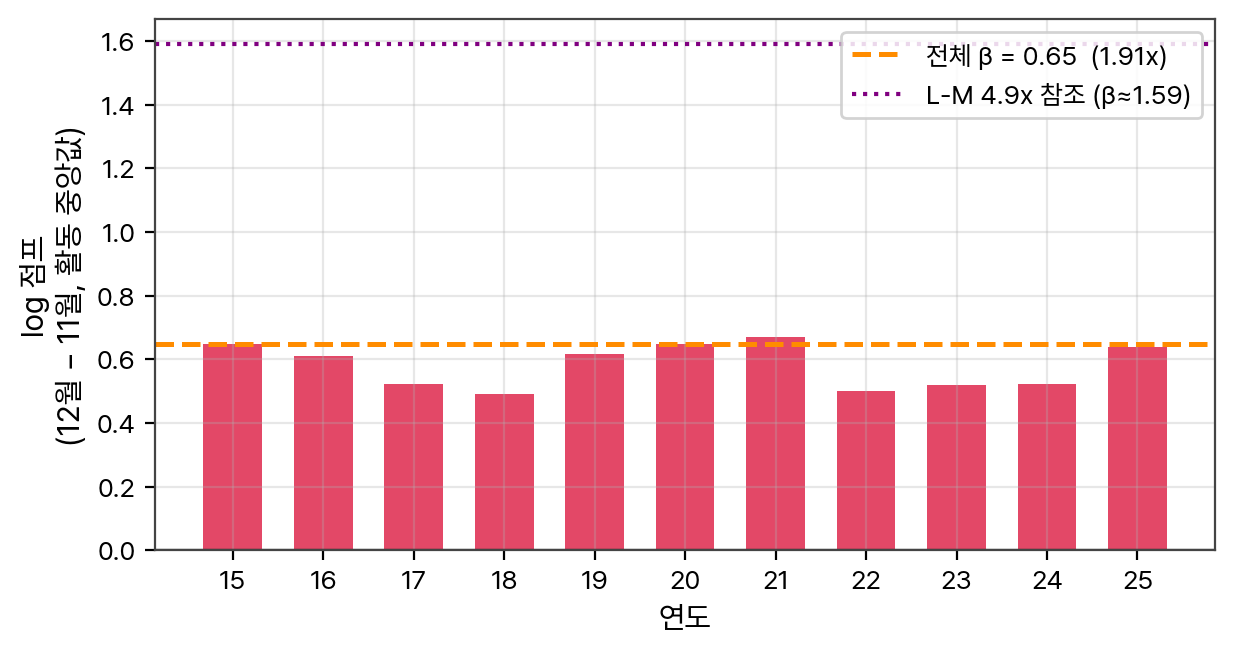
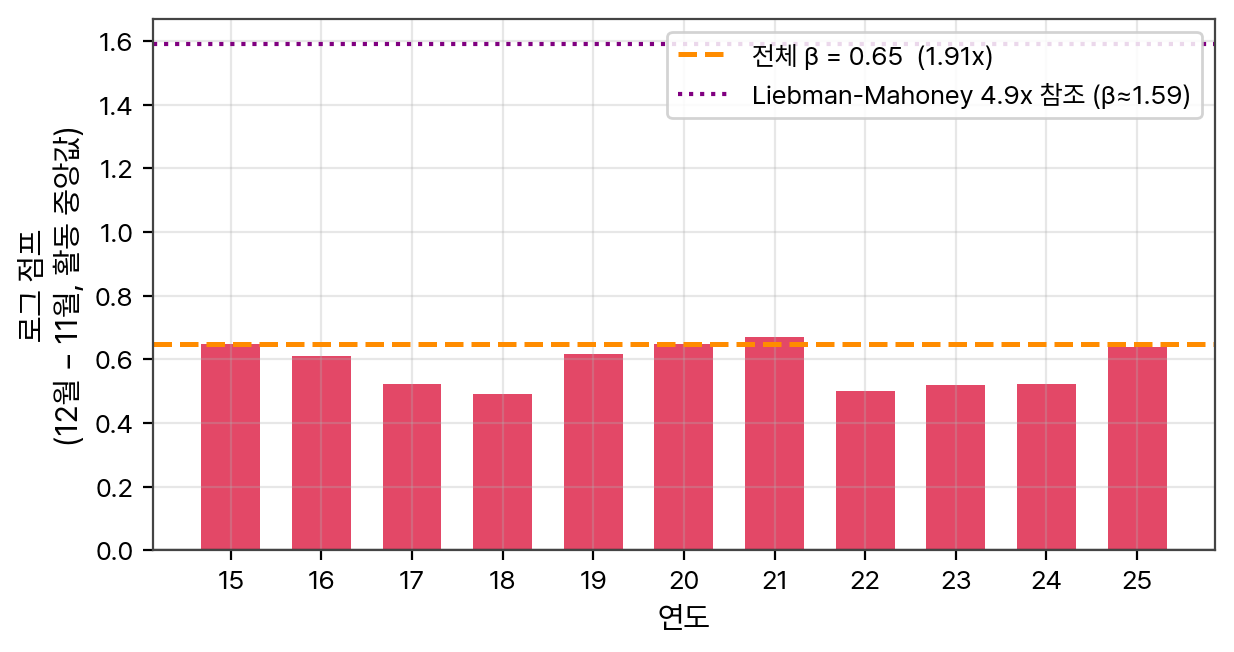
본문 차트 in-chart 라벨 직관화 — 캡션과 용어 일치 (부록 차트 제외)
본문(§1~7) 차트 8종의 축·범례·제목에 남은 변수코드·약어를 방금 정리한 캡션과 일치:
- redo_fig04 견고성: Δoutcome~Δamp_z→Δ결과변수~Δ진폭(표준화), FE→고정효과(FE),
  Permutation forest→순열검정 forest, obs/null→관측/무작위 기준선, amp_cv→진폭 변동계수
- redo_fig09 STL: amp_12m_norm→12개월 진폭, seasonal_strength→계절강도, outcome→결과변수
- redo_fig10 부처 사분면: exposure_score·w_corr_diff 코드 제거 → 굿하트 노출 점수(집행 시점 집중도)·부처 가중 결과변수 차분 상관 (business 짝과 통일)
- redo_fig07/08 RDD: cutoff→마감, log→로그, L-M→Liebman-Mahoney
- redo_fig05 CPI: raw/CPI-residual→원/CPI 통제 후
- redo_fig03 PH: max persistence→최대 지속성, max thresh→최대 임계
- redo_fig15: 12m cycle wavelet power→12개월 주기 진폭(wavelet power)

부록 차트(redo_fig11~14·16)는 사용자 지시대로 미변경. 81p 유지, 렌더 검증 완료.

diff --git a/scripts/figures/redo_fig04_robustness.py b/scripts/figures/redo_fig04_robustness.py
@@ -93,8 +93,8 @@ for i, p in enumerate(fe['p']):
 ax.axhline(0, color='gray', lw=0.6)
 ax.set_xticks(xs)
 ax.set_xticklabels(labels_short, fontsize=9, rotation=12, ha='right')
-ax.set_ylabel('β (Δoutcome ~ Δamp_z)')
-ax.set_title('(a) FE 회귀 β  (N=128)')
+ax.set_ylabel('β (Δ결과변수 ~ Δ진폭, 표준화)')
+ax.set_title('(a) 고정효과(FE) 회귀 β  (N=128)')
 ax.grid(alpha=0.3, axis='y')
 
 # ── (b) 14분야 Permutation forest plot
@@ -120,8 +120,8 @@ ax.scatter(perm_sorted['obs_corr_diff'], y_pos, s=42,
 ax.axvline(0, color='gray', lw=0.6, ls=':')
 ax.set_yticks(y_pos)
 ax.set_yticklabels(perm_sorted['fld'], fontsize=8)
-ax.set_xlabel('차분 상관 (점=obs · 띠=null 95% CI)')
-ax.set_title('(b) Permutation forest — 14분야 (p<.05 빨강)')
+ax.set_xlabel('차분 상관 (점=관측 · 띠=무작위 기준선 95% CI)')
+ax.set_title('(b) 순열검정 forest — 14분야 (p<.05 빨강)')
 ax.grid(alpha=0.3, axis='x')
 
 plt.tight_layout()
@@ -137,10 +137,10 @@ fig, axes = plt.subplots(1, 2, figsize=(7.56, 4.2))
 ax = axes[0]
 pv = lag.pivot_table(index='fld', columns='lag', values='corr_diff')
 sns.heatmap(pv, annot=True, fmt='.2f', cmap='RdBu_r', center=0, ax=ax,
-            cbar_kws={'label': 'corr_diff'},
+            cbar_kws={'label': '차분 상관'},
             annot_kws={'size': 8.5}, linewidths=0.3, linecolor='white')
-ax.set_xlabel('lag (year)'); ax.set_ylabel('')
-ax.set_title('(c) Lag/Lead 차분 상관 heatmap')
+ax.set_xlabel('시차 (년)'); ax.set_ylabel('')
+ax.set_title('(c) 시차/선행 차분 상관 heatmap')
 ax.tick_params(axis='y', labelsize=9.5)
 ax.tick_params(axis='x', labelsize=10)
 
@@ -154,8 +154,8 @@ ax.barh(range(len(nat_sorted)), nat_sorted['amp_cv'],
         color=colors_bar, alpha=0.85, edgecolor='black', linewidth=0.4)
 ax.set_yticks(range(len(nat_sorted)))
 ax.set_yticklabels(nat_sorted['fld'], fontsize=10)
-ax.set_xlabel('amp_12m 시간 CV')
-ax.set_title('(d) 분야별 amp_cv (게임화 변동 vs 자연 주기)')
+ax.set_xlabel('12개월 진폭 시간 변동계수')
+ax.set_title('(d) 분야별 진폭 변동계수 (게임화 변동 vs 자연 주기)')
 ax.grid(alpha=0.3, axis='x')
 
 plt.tight_layout()

diff --git a/scripts/figures/redo_fig05_cpi.py b/scripts/figures/redo_fig05_cpi.py
@@ -48,7 +48,7 @@ fig, axes = plt.subplots(2, 1, figsize=(8.5, 8.5),
 # ── (a) 산포도 raw vs CPI-residual + 분야 라벨 (adjustText)
 ax1 = axes[0]
 ax1.plot([-1, 1], [-1, 1], '--', color='#888', alpha=0.6,
-         label='identity (변화 없음)')
+         label='대각선 (변화 없음)')
 ax1.scatter(df['corr_raw'], df['corr_resid_CPI'], s=80, alpha=0.78,
             edgecolor='white', linewidth=1.2, color='#5475a8')
 texts = []
@@ -74,8 +74,8 @@ except ImportError:
 ax1.axhline(0, color='gray', lw=0.6, ls=':')
 ax1.axvline(0, color='gray', lw=0.6, ls=':')
 n_sign = (df['sign_change'] == True).sum()
-ax1.set_xlabel('raw 상관 (CPI 통제 전)')
-ax1.set_ylabel('CPI-residual 상관')
+ax1.set_xlabel('원 상관 (CPI 통제 전)')
+ax1.set_ylabel('CPI 통제 후 상관')
 ax1.set_xlim(-1.05, 1.05); ax1.set_ylim(-1.05, 1.05)
 ax1.legend(loc='lower right')
 ax1.grid(alpha=0.3)
@@ -86,16 +86,16 @@ ax2 = axes[1]
 df_sorted = df.sort_values('corr_raw').reset_index(drop=True)
 y = np.arange(len(df_sorted))
 ax2.barh(y - 0.2, df_sorted['corr_raw'], height=0.4,
-         label='raw 상관', color='#5475a8', alpha=0.85)
+         label='원 상관 (CPI 통제 전)', color='#5475a8', alpha=0.85)
 ax2.barh(y + 0.2, df_sorted['corr_resid_CPI'], height=0.4,
-         label='CPI-residual 상관', color='#a85454', alpha=0.85)
+         label='CPI 통제 후 상관', color='#a85454', alpha=0.85)
 ax2.set_yticks(y)
 ax2.set_yticklabels(df_sorted['fld'], fontsize=11)
 ax2.axvline(0, color='gray', lw=0.6)
 ax2.set_xlabel('상관계수')
 ax2.legend(loc='lower right')
 ax2.grid(axis='x', alpha=0.3)
-ax2.set_title('(b) 분야별 raw vs CPI-residual')
+ax2.set_title('(b) 분야별 통제 전 vs 통제 후')
 
 plt.tight_layout()
 

diff --git a/scripts/figures/redo_fig08_field.py b/scripts/figures/redo_fig08_field.py
@@ -72,7 +72,7 @@ ax.axvline(0, color='black', lw=0.8)
 ax.axvline(beta_total, color='darkorange', lw=1.6, ls='--',
            label=f'한국 전체 β={beta_total:.2f} ({mult_total:.2f}x)')
 ax.axvline(np.log(LM_MULT), color='purple', lw=1.4, ls=':',
-           label=f'L-M 5x (β≈{np.log(LM_MULT):.2f})')
+           label=f'Liebman-Mahoney 5x (β≈{np.log(LM_MULT):.2f})')
 
 # mult 라벨 (막대 끝)
 xmax = max(float((df['beta'] + 1.96 * df['se']).max()), np.log(LM_MULT))
@@ -83,7 +83,7 @@ for i, row in df.iterrows():
             va='center', ha='left', fontsize=8.5,
             color='#333' if row['pval'] < 0.05 else '#888')
 
-ax.set_xlabel('β (log 일집행액 12월 점프, 95% CI)')
+ax.set_xlabel('β (로그 일집행액 12월 점프, 95% CI)')
 
 # 범례 — p값 색 + 참조선
 sig_patch = mpatches.Patch(color='#a85454', label='p<0.05', alpha=0.82)
@@ -92,7 +92,7 @@ ax.legend(handles=[sig_patch, ns_patch,
                    plt.Line2D([0], [0], color='darkorange', lw=1.6, ls='--',
                               label=f'전체 β={beta_total:.2f}'),
                    plt.Line2D([0], [0], color='purple', lw=1.4, ls=':',
-                              label=f'L-M 5x')],
+                              label=f'Liebman-Mahoney 5x')],
           loc='lower right', fontsize=9, ncol=1)
 
 ax.grid(alpha=0.3, axis='x')

diff --git a/scripts/figures/redo_fig07_rdd.py b/scripts/figures/redo_fig07_rdd.py
@@ -93,7 +93,7 @@ avg_m = agg_all.groupby('month')['mean_daily'].mean()
 ax.plot(avg_m.index, avg_m.values / 1e9,
         'k-', lw=2.6, zorder=5, label='11년 평균')
 ax.axvline(11.5, color='crimson', lw=1.8, ls='--', alpha=0.85,
-           label='12월 cutoff')
+           label='12월 마감')
 ax.axvspan(11, 12.5, alpha=0.08, color='crimson')
 ax.set_xlabel('월')
 ax.set_ylabel('활동 평균 일집행액 (십억원)')
@@ -120,9 +120,9 @@ ax.axhline(0, color='black', lw=0.8)
 ax.axhline(beta_total, color='darkorange', lw=1.8, ls='--',
            label=f'전체 β = {beta_total:.2f}  ({mult_total:.2f}x)')
 ax.axhline(np.log(LM_MULT), color='purple', lw=1.5, ls=':',
-           label=f'L-M 4.9x 참조 (β≈{np.log(LM_MULT):.2f})')
+           label=f'Liebman-Mahoney 4.9x 참조 (β≈{np.log(LM_MULT):.2f})')
 ax.set_xlabel('연도')
-ax.set_ylabel('log 점프\n(12월 − 11월, 활동 중앙값)')
+ax.set_ylabel('로그 점프\n(12월 − 11월, 활동 중앙값)')
 ax.set_xticks(yr_list)
 ax.set_xticklabels([str(y)[2:] for y in yr_list])
 ax.legend(loc='upper right')

diff --git a/scripts/figures/redo_fig03_persistence.py b/scripts/figures/redo_fig03_persistence.py
@@ -91,7 +91,7 @@ ax.set_ylabel('Death (소멸 반경)')
 ax.legend(loc='lower right')
 ax.set_title('Persistence Diagram — 대각선에서 멀수록 견고한 위상 구조', fontsize=12)
 ax.grid(alpha=0.3)
-ax.text(0.02, 0.98, 'Vietoris-Rips\nN=300, max thresh=8.0',
+ax.text(0.02, 0.98, 'Vietoris-Rips 복합체\nN=300, 최대 임계 8.0',
         transform=ax.transAxes, va='top', fontsize=10,
         bbox=dict(boxstyle='round,pad=0.4', fc='white',
                   ec='#bbb', alpha=0.9))
@@ -127,8 +127,8 @@ ax.axvline(h1m, color='black', lw=2, label=f'median = {h1m:.2f}')
 ax.axvspan(h1lo, h1hi, alpha=0.15, color='black',
            label=f'95% CI = [{h1lo:.2f}, {h1hi:.2f}]')
 ax.axvline(0.65, color='steelblue', lw=1.4, linestyle='--',
-           label='5y 참조 (median 0.65)')
-ax.set_xlabel('H1 max persistence (bootstrap, n=200, 50회)')
+           label='5년 참조 (median 0.65)')
+ax.set_xlabel('H1 최대 지속성 (부트스트랩, n=200, 50회)')
 ax.set_ylabel('빈도')
 ax.legend(loc='upper right')
 ax.grid(alpha=0.3, axis='y')

diff --git a/scripts/figures/redo_fig09_stl.py b/scripts/figures/redo_fig09_stl.py
@@ -83,7 +83,7 @@ for i, r in df.iterrows():
         tick_label.set_color('#a85454')
         tick_label.set_fontweight('bold')
 ax.axvline(0, color='black', lw=1.0, zorder=3)
-ax.set_xlabel('1차 차분 상관 (게임화 ↔ outcome)')
+ax.set_xlabel('1차 차분 상관 (게임화 ↔ 결과변수)')
 ax.legend(loc='lower right', fontsize=13)
 ax.grid(alpha=0.3, axis='x')
 ax.text(0.0, 1.02,
@@ -141,8 +141,8 @@ for _, row in sw.iterrows():
     ax.scatter([row['corr_fft']], [row['corr_stl']], s=160,
                color='#a85454', edgecolor='black', linewidth=1.4, zorder=5)
 
-ax.set_xlabel('FFT 상관 (amp_12m_norm)')
-ax.set_ylabel('STL 상관 (seasonal_strength)')
+ax.set_xlabel('FFT 상관 (12개월 진폭)')
+ax.set_ylabel('STL 상관 (계절강도)')
 ax.legend(loc='lower left')
 ax.grid(alpha=0.3)
 ax.set_xlim(-1.05, 1.05); ax.set_ylim(-1.05, 1.05)

diff --git a/scripts/figures/redo_fig10_quadrant.py b/scripts/figures/redo_fig10_quadrant.py
@@ -232,9 +232,9 @@ ax.text(0.005, y0_lim + 0.02, 'Q3 안전 (음 상관)',
 
 ax.set_xlim(0, x1)
 ax.set_ylim(y0_lim, y1_lim)
-ax.set_xlabel('굿하트 노출 점수 (H5 exposure_score)', fontsize=13)
-ax.set_ylabel('부처 가중 outcome 차분 상관 (w_corr_diff)', fontsize=13)
-ax.set_title(f'부처 단위 정책 사분면 (n={len(merged)} 부처)  ·  도구 단위 layer',
+ax.set_xlabel('굿하트 노출 점수 (집행 시점 집중도)', fontsize=13)
+ax.set_ylabel('부처 가중 결과변수 차분 상관', fontsize=13)
+ax.set_title(f'부처 단위 정책 사분면 (n={len(merged)} 부처)  ·  부처 단위 분석',
              fontsize=15, fontweight='bold', pad=12)
 ax.tick_params(labelsize=11)
 ax.legend(loc='upper center', bbox_to_anchor=(0.5, -0.10),

diff --git a/scripts/figures/redo_fig15_evolution.py b/scripts/figures/redo_fig15_evolution.py
@@ -51,7 +51,7 @@ for arch in ['C0_personnel', 'C1_direct_invest', 'C2_chooyeon', 'C3_normal']:
             color=color, label=label, alpha=0.92)
 
 ax.set_xlabel('연도')
-ax.set_ylabel('12m cycle wavelet power')
+ax.set_ylabel('12개월 주기 진폭 (wavelet power)')
 ax.grid(alpha=0.3)
 
 # 정점(출연금형 1.55) 위쪽 여유 확보 — 변화율 박스가 자리잡을 공간
